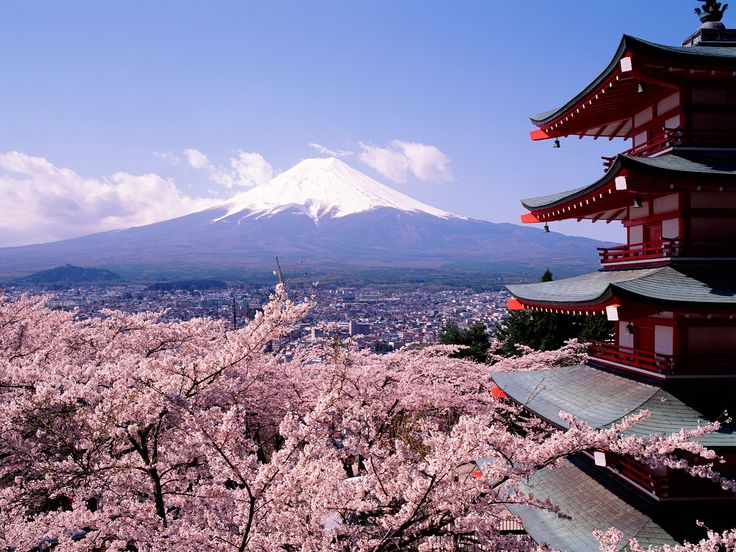
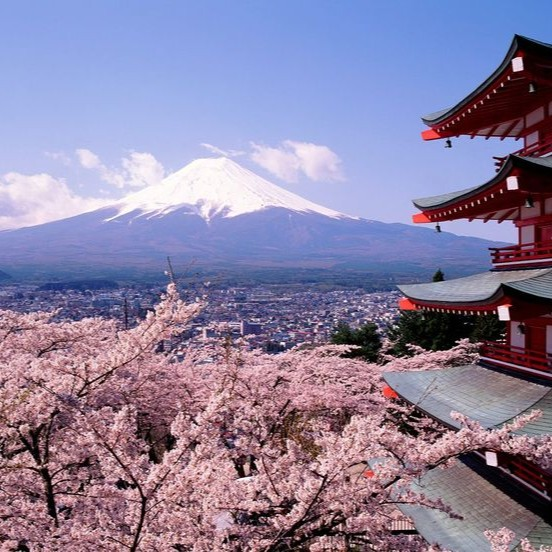
adddd

diff --git a/projecttec/style/style.css b/projecttec/style/style.css
@@ -45,16 +45,18 @@ width:250px;
 
 .box {
 	float : center;
-	max-width: 500px;
+	max-width: 300px;
 	padding-top: 5px;
 	border: solid #ffdff2;
 	border-radius:25px;
 	background-color:#ffdff2;
     color:#6a0040;
     margin-bottom: 20px;          
-    box-shadow: 0 0 10px rgba(0, 0, 0, 0.1);
+    /*box-shadow: 0 0 10px rgba(0, 0, 0, 0.1);*/
 	flex: 1 1 250px;
 	text-align:center;
+	transition :transform 0.4s cubic-bezier(.25,.8,.25,1), 
+               /* box-shadow 0.4s cubic-bezier(.25,.8,.25,1);*/
     	
 }
 
@@ -70,6 +72,10 @@ width:250px;
     object-fit:cover;
 	float : center;
 }
+.link:hover{
+	transform: translateY(-10px);
+	//*box-shadow: 0 10px 20px rgba(0,0,0,0.2);*//
+}
 #footer{
 	background-color:#ffffff;
     color:#6a0040;
@@ -80,6 +86,23 @@ width:250px;
 	text-align:center;
 }
 
+.divo{
+	background-color:#ffffff;
+    color:#6a0040;
+	border-radius:20px;
+    padding:10px;
+    margin-top: 20px;
+	box-shadow: 0 0 10px rgba(0, 0, 0, 0.1);
+	text-align:center;
+}
+.img2{
+    width:30%;
+    padding:10px;
+    object-fit:cover;
+	float : center;
+	border-radius:35px;
+	box-shadow: 0 0 10px rgba(0, 0, 0, 0.1);
+}
 .form{
 	background-color:#ffffff;
     color:#6a0040;

diff --git a/projecttec/pages/Kamakura.html b/projecttec/pages/Kamakura.html
@@ -1,0 +1,19 @@
+<!doctype html>
+<html>
+<head>
+<link rel="stylesheet" href="../style/style.css"/>
+<title>Kamakura</title>
+</head>
+<body>
+<h1 class="background">Kamakura Sea</h1>
+<div class="divo">
+<img src="../extra/KamakuraSea.jpg" class="img2">
+<img src="../extra/japansea.jpeg" class="img2">
+<img src="../extra/KamakuraSeaa.jpg" class="img2">
+</div>
+<div class="divo">
+<h2>Kamakura Sea – Your Gateway to Coastal Beauty in Japan</h2>
+<h4>Experience the charm of the Kamakura Sea, one of Japan’s most popular coastal destinations near Tokyo. The sea attracts visitors with its gentle waves, sandy beaches, and views that blend history with natural beauty. Whether you’re looking for a relaxing day by the shore, a scenic seaside walk, or stunning sunset photos, the Kamakura Sea offers an authentic Japanese coastal experience filled with tranquility and beauty.</h4>
+</div>
+</body>
+</html>

diff --git a/projecttec/pages/MountFuji.html b/projecttec/pages/MountFuji.html
@@ -1,0 +1,19 @@
+<!doctype html>
+<html>
+<head>
+<link rel="stylesheet" href="../style/style.css"/>
+<title>Mount Fuji</title>
+</head>
+<body>
+<h1 class="background">Mount Fuji</h1>
+<div class="divo">
+<img src="../extra/fujii.jpg" class="img2">
+<img src="../extra/CherryBlossomsJapan.jpeg" class="img2">
+<img src="../extra/fujiii.jpg" class="img2">
+</div>
+<div class="divo">
+<h2>Mount Fuji – Japan’s Iconic Natural Wonder</h2>
+<h4>Discover the beauty of Mount Fuji, Japan’s highest peak and one of its most famous landmarks. Each year, visitors from around the world come to enjoy its breathtaking scenery, peaceful lakes, and scenic hiking trails. Whether you’re seeking an adventurous climb, a quiet moment of reflection, or unforgettable photos, Mount Fuji offers a perfect blend of nature, culture, and inspiration all in one destination.</h4>
+</div>
+</body>
+</html>

diff --git a/projecttec/pages/Shibuya.html b/projecttec/pages/Shibuya.html
@@ -1,0 +1,19 @@
+<!doctype html>
+<html>
+<head>
+<link rel="stylesheet" href="../style/style.css"/>
+<title>Shibuya</title>
+</head>
+<body>
+<h1 class="background">Shibuya</h1>
+<div class="divo">
+<img src="../extra/Shibuya.jpg" class="img2">
+<img src="../extra/japantokyo.jpg" class="img2">
+<img src="../extra/Shibuyaa.jpg" class="img2">
+</div>
+<div class="divo">
+<h2>Shibuya – The Vibrant Heart of Modern Tokyo</h2>
+<h4>Discover the lively atmosphere of Shibuya, one of Tokyo’s most iconic and energetic districts. Shibuya is famous for its bustling scramble crossing, trendy shopping centers, and cafés and restaurants that capture the youthful spirit of Japan. Whether you’re looking for a unique shopping experience, iconic city photos, or an energetic urban vibe, Shibuya is the perfect destination to explore modern Japanese culture.</h4>
+</div>
+</body>
+</html>

diff --git a/projecttec/index.html b/projecttec/index.html
@@ -23,21 +23,27 @@
 </section>
 <div class="bigdiv">
 
+<a href="./pages/MountFuji.html" class="link">
 <div class="box">
 <img src="./extra/CherryBlossomsJapan.jpeg" class="img">
 <h3>Mount Fuji is between Shizuoka City and Yamanashi City</h3>
 </div>
+</a>
 
+<a href="./pages/Kamakura.html" class="link">
 <div class="box">
 <img src="./extra/japansea.jpeg" class="img">
 <h3>The sea in the city of Kamakura</h3>
 </div>
+</a>
 
+<a href="./pages/Shibuya.html" class="link">
 <div class="box">
 <img src="./extra/japantokyo.jpg" class="img">
 <h3>Tokyo city, downtown at Shibuya Crossing</h3>
 </div>
 </div>
+</a>
 
 <footer id="footer">
 <p>Follow us:</p>
